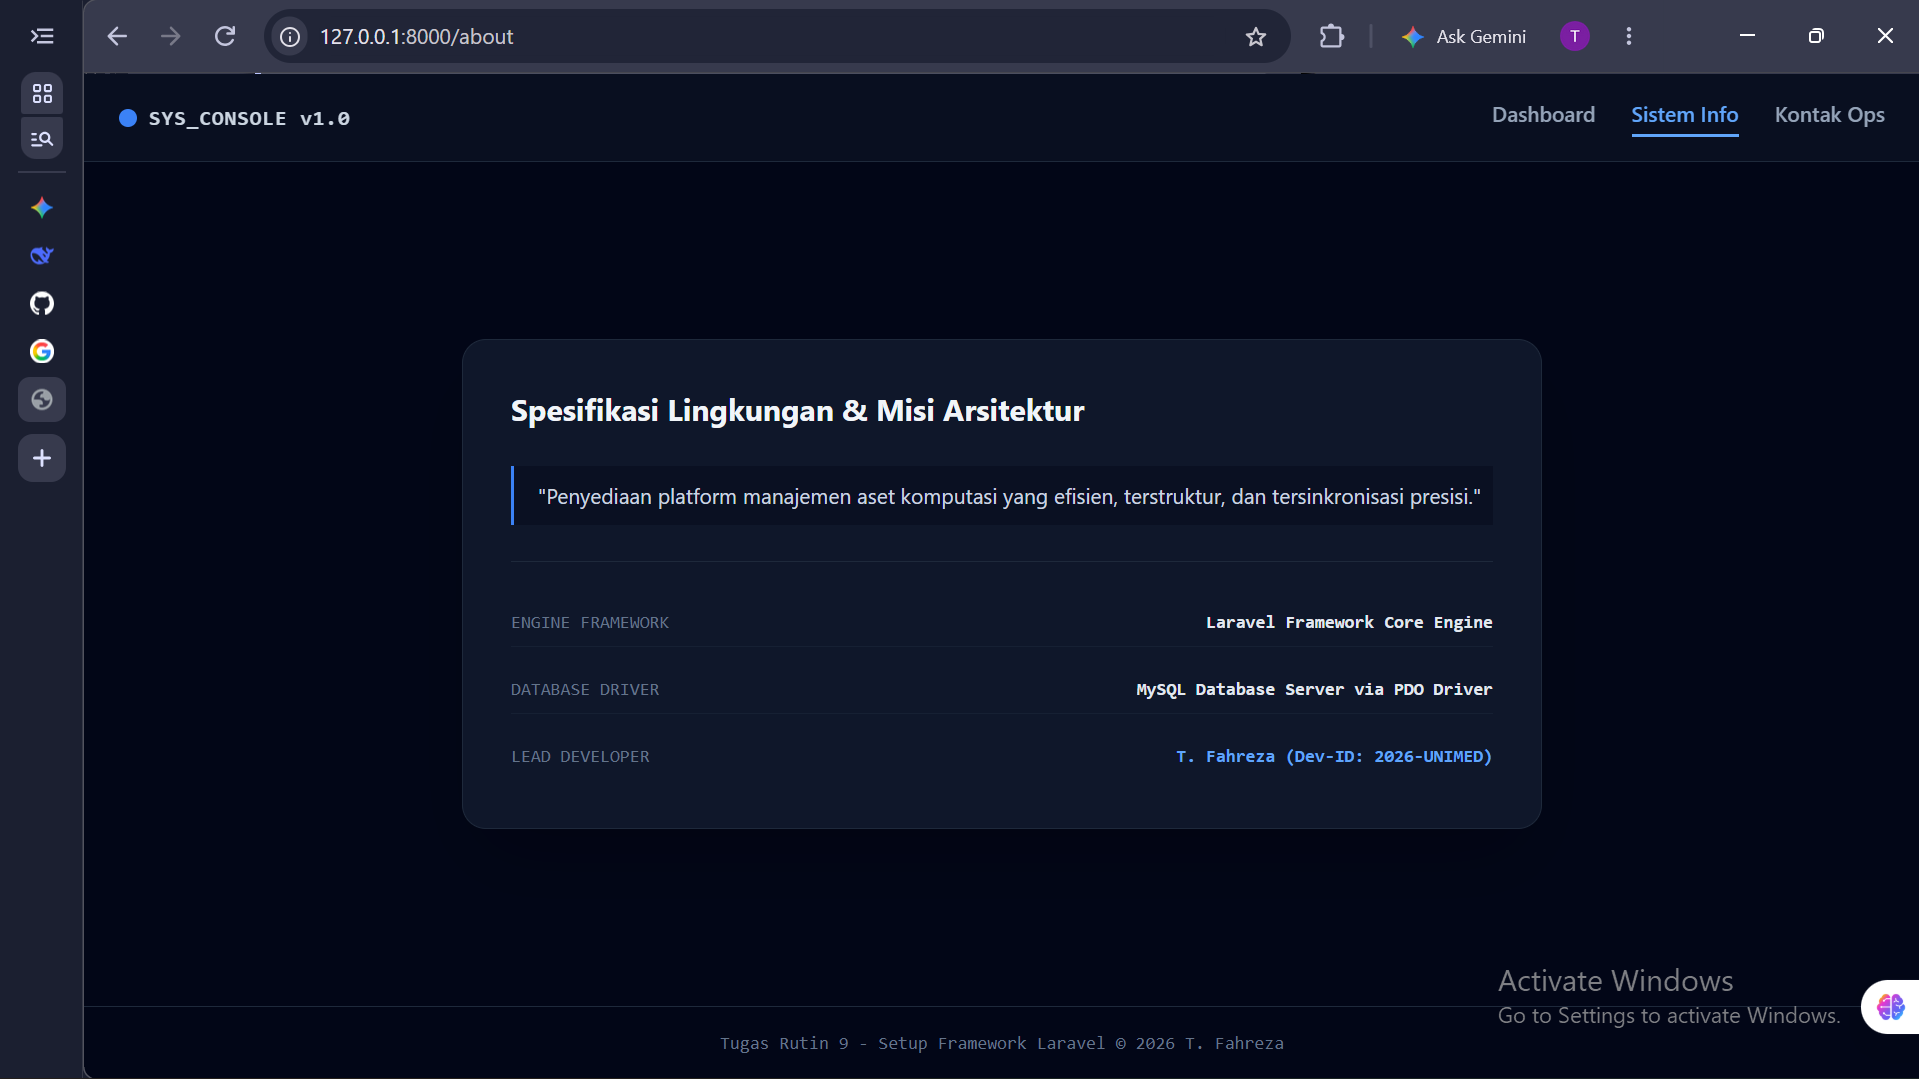
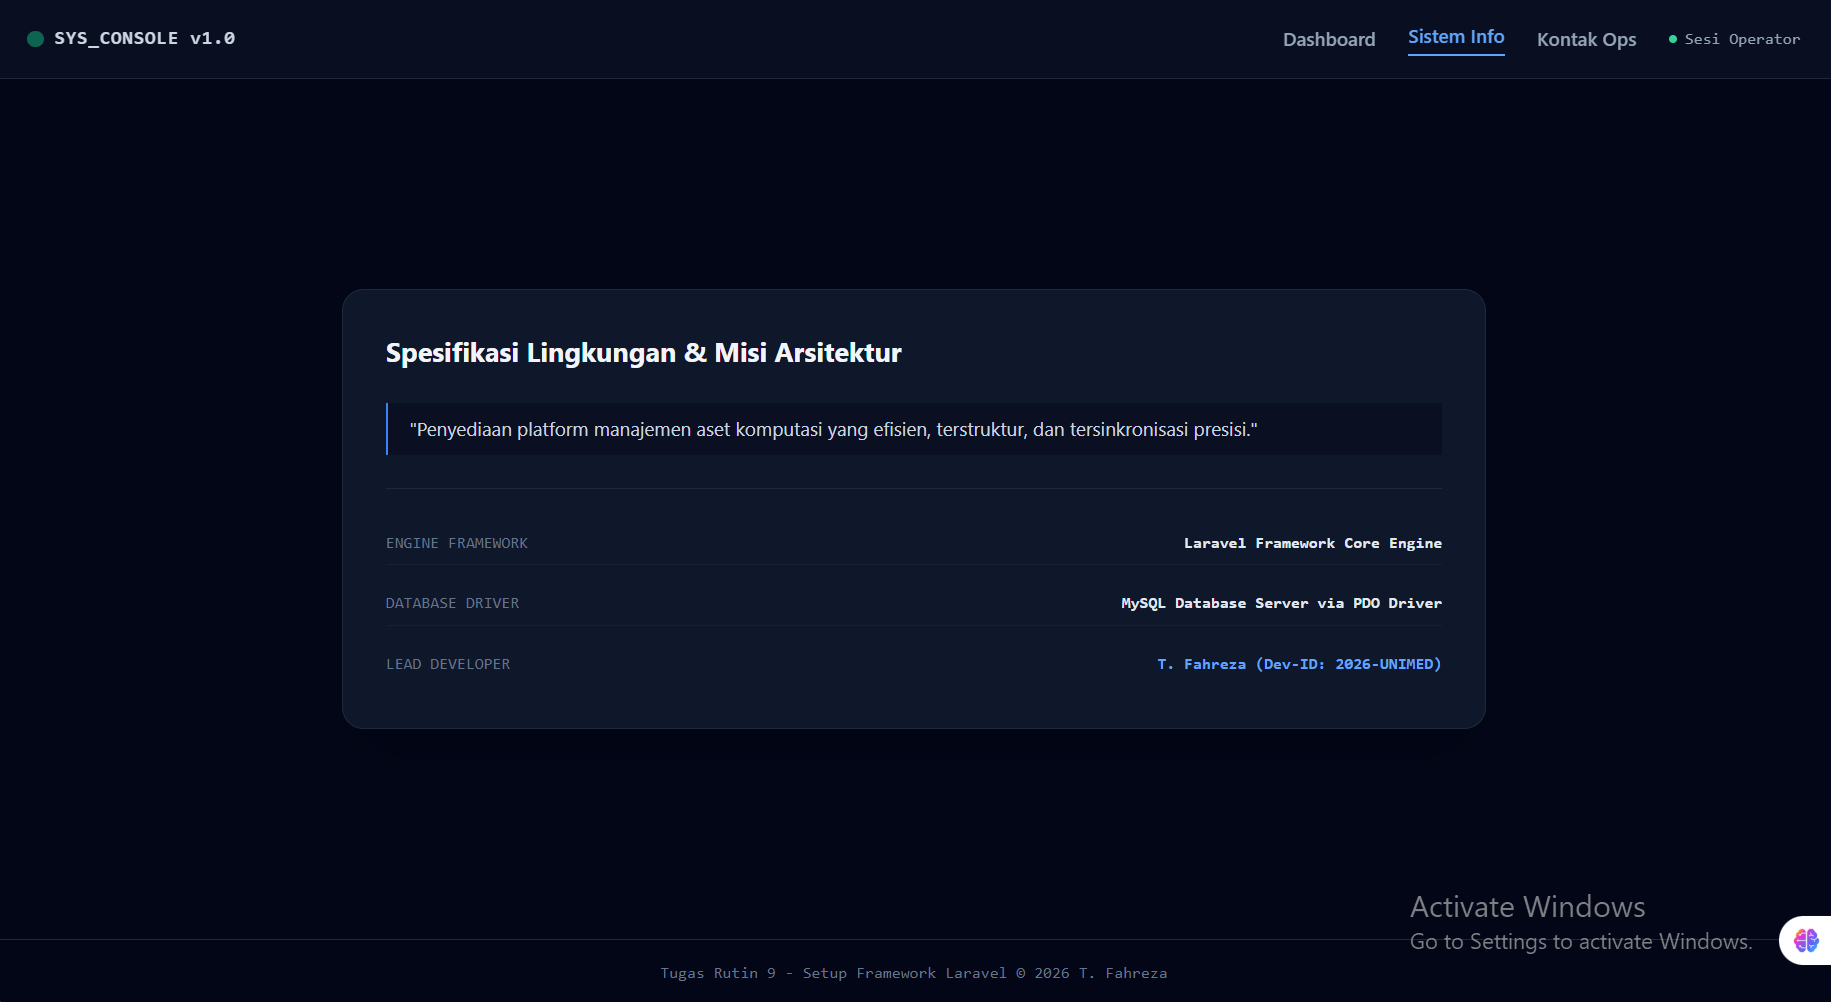
Feat: Refine navigation styling, add bonus route accessibility, and update documentation

diff --git a/resources/views/home.blade.php b/resources/views/home.blade.php
@@ -7,7 +7,7 @@
     <script src="https://cdn.tailwindcss.com"></script>
 </head>
 <body class="bg-slate-950 text-slate-100 font-sans min-h-screen flex flex-col justify-between">
-    <!-- Header Navigation dengan Tombol Akses Rute Bonus -->
+    <!-- Header Navigation -->
     <header class="border-b border-slate-800 bg-slate-900/50 backdrop-blur px-6 py-4 flex flex-wrap justify-between items-center gap-4">
         <div class="flex items-center gap-2">
             <div class="w-3 h-3 rounded-full bg-emerald-500 animate-pulse"></div>
@@ -17,16 +17,16 @@
             <a href="/" class="text-blue-400 border-b-2 border-blue-400 pb-1">Dashboard</a>
             <a href="/about" class="text-slate-400 hover:text-slate-200 transition">Sistem Info</a>
             <a href="/contact" class="text-slate-400 hover:text-slate-200 transition">Kontak Ops</a>
-            <!-- Link Aksesibilitas Rute Bonus -->
-            <a href="/hello/Fahreza" class="px-2.5 py-1 bg-emerald-500/10 hover:bg-emerald-500/20 text-emerald-400 border border-emerald-500/30 rounded-lg text-xs font-mono transition flex items-center gap-1.5 shadow-sm">
+            <a href="/hello/Operator" class="text-slate-400 hover:text-emerald-400 transition flex items-center gap-1.5 font-mono text-xs">
                 <span class="w-1.5 h-1.5 rounded-full bg-emerald-400"></span>
-                <span>Demo Bonus: /hello</span>
+                <span>Sesi Operator</span>
             </a>
         </nav>
     </header>
 
     <!-- Main Content Area -->
-    <main class="max-w-4xl mx-auto w-full px-6 py-12">
+    <main class="max-w-4xl mx-auto w-full px-6 py-10 space-y-6">
+        <!-- Status Banner -->
         <div class="bg-slate-900 border border-slate-800 rounded-2xl p-8 shadow-2xl">
             <div class="flex flex-col md:flex-row justify-between items-start md:items-center border-b border-slate-800 pb-6 mb-6">
                 <div>
@@ -36,6 +36,18 @@
                 <span class="mt-4 md:mt-0 px-3 py-1 bg-emerald-500/10 text-emerald-400 border border-emerald-500/20 text-xs font-mono rounded-full font-medium">
                     STATUS: {{ $data['status'] }}
                 </span>
+            </div>
+
+            <!-- Interaksi Dinamis: Form Input Uji Route Parameter -->
+            <div class="mb-8 p-5 bg-slate-950/70 border border-slate-800 rounded-xl">
+                <h3 class="text-xs uppercase font-mono tracking-wider text-slate-400 mb-2">⚡ Simulasi Interaktif Route Parameter (/hello/{nama})</h3>
+                <p class="text-xs text-slate-400 mb-4">Ketik nama Anda atau nama dosen untuk menguji transmisi parameter URL secara real-time:</p>
+                <form onsubmit="event.preventDefault(); const val = document.getElementById('operatorName').value.trim(); if(val) window.location.href='/hello/'+encodeURIComponent(val);" class="flex flex-wrap sm:flex-nowrap gap-3">
+                    <input type="text" id="operatorName" placeholder="Masukkan nama (misal: Fahreza, Dosen Penguji)..." class="bg-slate-900 border border-slate-700 text-slate-100 text-sm rounded-lg px-4 py-2.5 w-full focus:outline-none focus:border-blue-500 font-mono" required />
+                    <button type="submit" class="bg-blue-600 hover:bg-blue-500 text-white text-xs font-mono font-semibold px-5 py-2.5 rounded-lg transition whitespace-nowrap">
+                        Masuk Sesi →
+                    </button>
+                </form>
             </div>
 
             <h2 class="text-xs uppercase tracking-wider text-slate-400 font-mono mb-4">Modul Operasional Terdeteksi</h2>

diff --git a/resources/views/about.blade.php b/resources/views/about.blade.php
@@ -13,14 +13,14 @@
             <span class="font-mono text-sm tracking-wider text-slate-300 font-semibold">SYS_CONSOLE v1.0</span>
         </div>
         <nav class="flex items-center gap-4 sm:gap-6 text-sm font-medium">
-            <a href="/" class="text-slate-400 hover:text-slate-200 transition">Dashboard</a>
-            <a href="/about" class="text-blue-400 border-b-2 border-blue-400 pb-1">Sistem Info</a>
-            <a href="/contact" class="text-slate-400 hover:text-slate-200 transition">Kontak Ops</a>
-            <a href="/hello/Fahreza" class="px-2.5 py-1 bg-emerald-500/10 hover:bg-emerald-500/20 text-emerald-400 border border-emerald-500/30 rounded-lg text-xs font-mono transition flex items-center gap-1.5 shadow-sm">
-                <span class="w-1.5 h-1.5 rounded-full bg-emerald-400"></span>
-                <span>Demo Bonus: /hello</span>
-            </a>
-        </nav>
+    <a href="/" class="text-slate-400 hover:text-slate-200 transition">Dashboard</a>
+    <a href="/about" class="text-blue-400 border-b-2 border-blue-400 pb-1">Sistem Info</a>
+    <a href="/contact" class="text-slate-400 hover:text-slate-200 transition">Kontak Ops</a>
+    <a href="/hello/Operator" class="text-slate-400 hover:text-emerald-400 transition flex items-center gap-1.5 font-mono text-xs">
+        <span class="w-1.5 h-1.5 rounded-full bg-emerald-400"></span>
+        <span>Sesi Operator</span>
+    </a>
+</nav>
     </header>
 
     <main class="max-w-4xl mx-auto w-full px-6 py-12">

diff --git a/resources/views/contact.blade.php b/resources/views/contact.blade.php
@@ -13,14 +13,14 @@
             <span class="font-mono text-sm tracking-wider text-slate-300 font-semibold">SYS_CONSOLE v1.0</span>
         </div>
         <nav class="flex items-center gap-4 sm:gap-6 text-sm font-medium">
-            <a href="/" class="text-slate-400 hover:text-slate-200 transition">Dashboard</a>
-            <a href="/about" class="text-slate-400 hover:text-slate-200 transition">Sistem Info</a>
-            <a href="/contact" class="text-blue-400 border-b-2 border-blue-400 pb-1">Kontak Ops</a>
-            <a href="/hello/Fahreza" class="px-2.5 py-1 bg-emerald-500/10 hover:bg-emerald-500/20 text-emerald-400 border border-emerald-500/30 rounded-lg text-xs font-mono transition flex items-center gap-1.5 shadow-sm">
-                <span class="w-1.5 h-1.5 rounded-full bg-emerald-400"></span>
-                <span>Demo Bonus: /hello</span>
-            </a>
-        </nav>
+    <a href="/" class="text-slate-400 hover:text-slate-200 transition">Dashboard</a>
+   <a href="/about" class="text-slate-400 hover:text-slate-200 transition">Sistem Info</a>
+    <a href="/contact" class="text-blue-400 border-b-2 border-blue-400 pb-1">Kontak Ops</a>
+    <a href="/hello/Operator" class="text-slate-400 hover:text-emerald-400 transition flex items-center gap-1.5 font-mono text-xs">
+        <span class="w-1.5 h-1.5 rounded-full bg-emerald-400"></span>
+        <span>Sesi Operator</span>
+    </a>
+</nav>
     </header>
 
     <main class="max-w-4xl mx-auto w-full px-6 py-12">

diff --git a/app/Http/Controllers/MainController.php b/app/Http/Controllers/MainController.php
@@ -3,6 +3,7 @@
 namespace App\Http\Controllers;
 
 use Illuminate\Http\Request;
+use App\Models\Barang;
 
 class MainController extends Controller
 {
@@ -18,6 +19,7 @@ class MainController extends Controller
                 ['nama' => 'Log Transaksi Masuk/Keluar', 'stok' => 'Real-time Audited']
             ]
         ];
+
         return view('home', compact('data'));
     }
 
@@ -29,6 +31,7 @@ class MainController extends Controller
             'pengembang' => 'T. Fahreza (Dev-ID: 2026-UNIMED)',
             'visi'       => 'Penyediaan platform manajemen aset komputasi yang efisien, terstruktur, dan tersinkronisasi presisi.'
         ];
+
         return view('about', compact('info'));
     }
 
@@ -40,11 +43,12 @@ class MainController extends Controller
             'telepon'  => '+62 822-6782-8900',
             'lokasi'   => 'Medan, Sumatera Utara'
         ];
+
         return view('contact', compact('kontak'));
     }
 
     public function hello($nama)
-{
-    return view('hello', ['nama' => $nama]);
-}
+    {
+        return view('hello', ['nama' => $nama]);
+    }
 }

diff --git a/database/migrations/2026_09_24_085638_create_barangs_table.php b/database/migrations/2026_09_24_085638_create_barangs_table.php
@@ -12,9 +12,13 @@ return new class extends Migration
     public function up(): void
     {
         Schema::create('barangs', function (Blueprint $table) {
-            $table->id();
-            $table->timestamps();
-        });
+    $table->id();
+    $table->string('kode_barang', 20)->unique();
+    $table->string('nama_barang', 100);
+    $table->string('kategori', 50);
+    $table->integer('stok')->default(0);
+    $table->timestamps();
+});
     }
 
     /**
